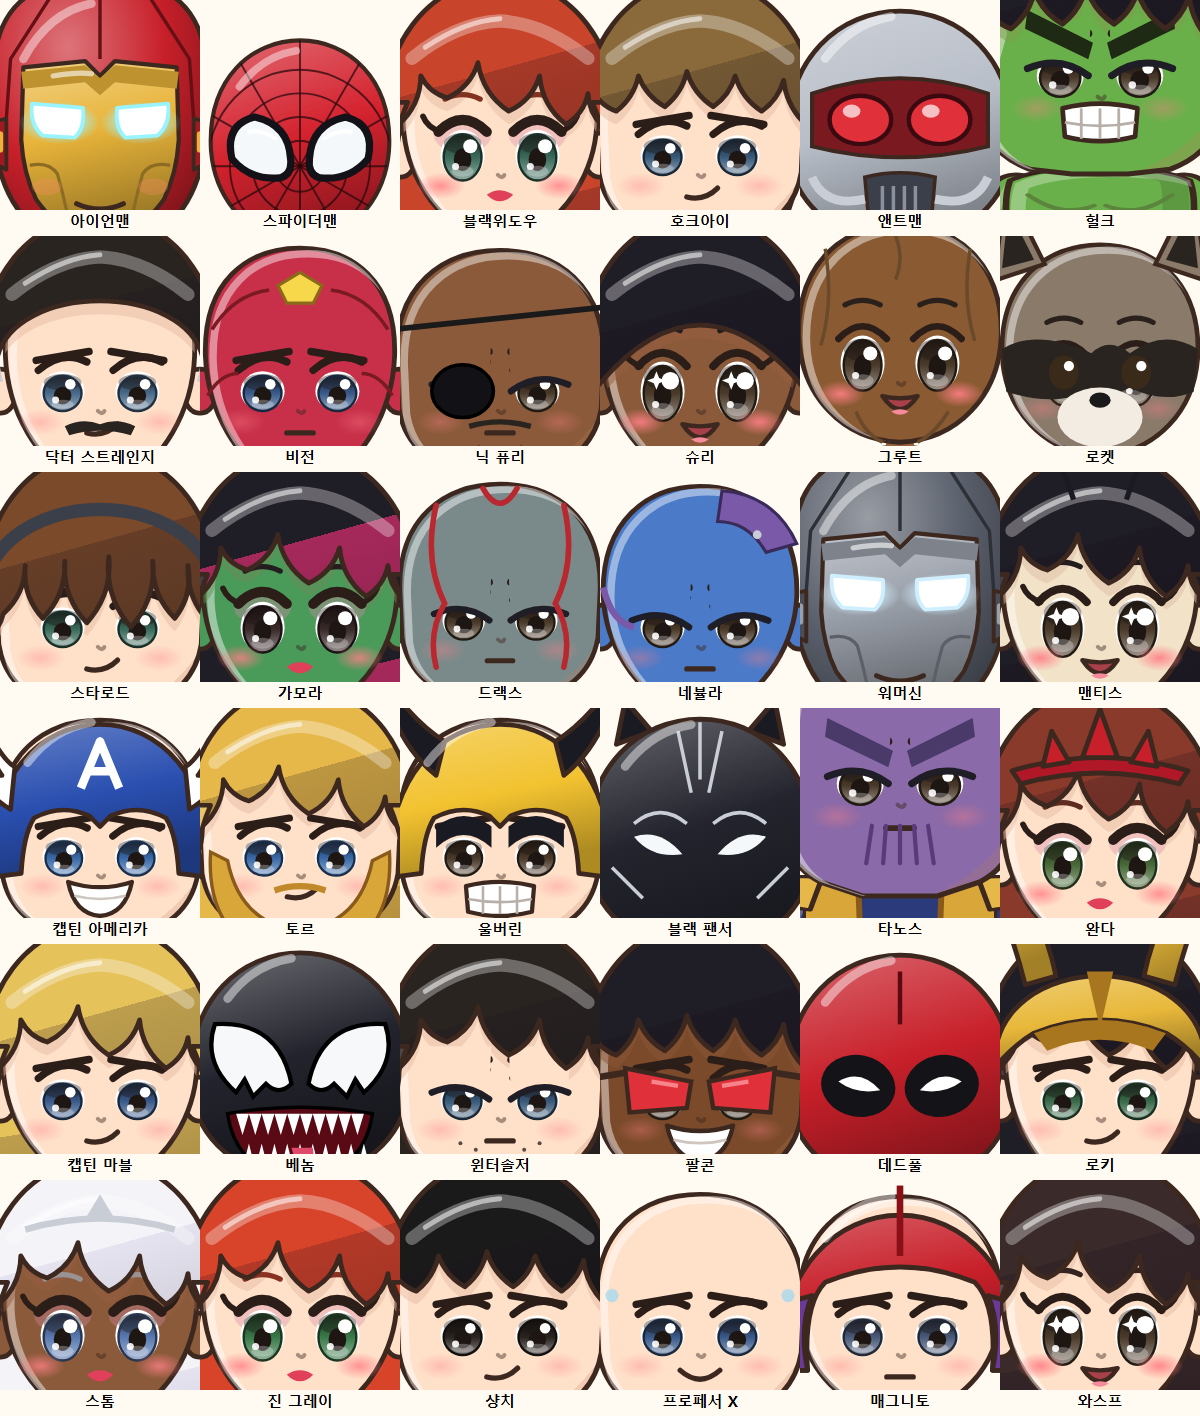
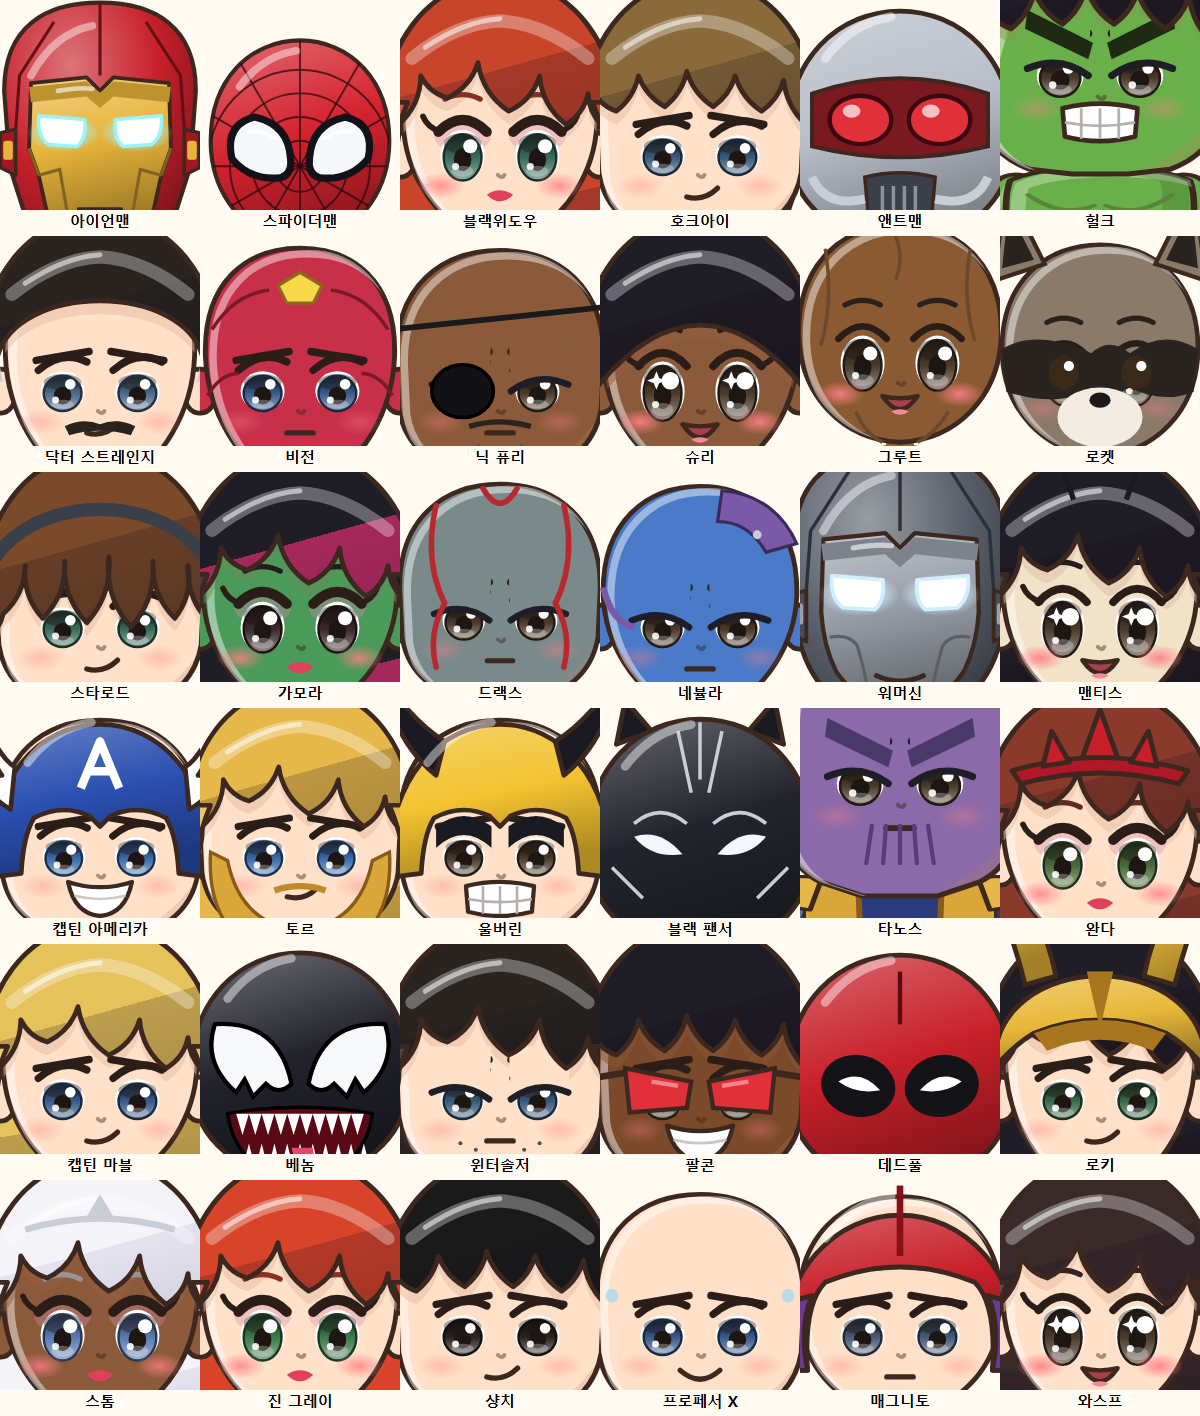
마블직원 v1: 아이언맨 = C 시안 확정 · 머리 10% 줄임

Changed region(s): [[0.0, 0.0, 0.185, 0.1554]]

diff --git a/jugansa/ai-office/ai-jugansa/design/skins/마블직원_v1/svg_chars.py b/jugansa/ai-office/ai-jugansa/design/skins/마블직원_v1/svg_chars.py
@@ -1362,7 +1362,7 @@ def M(name, skin=SK, hs="short", hair="#2a2420", suit="#2a4fb0", **kw):
 
 # ── 명단 (인기순 매핑 · 본부장 확정) ──
 DK, BR, PL = "#8a5a3a", "#7a4a2a", "#f2e2c8"
-BOSS_LOOK = M("아이언맨", iron_style="C", hs="bald", suit="#c8202a", hat="m_iron", mv_top="iron", glove="#c8202a", legs="#c8202a", boots="#c8202a", boot_top=176, iron_arms=True, iron_legs=True, mvp=["repulsor"], ex=["no_ears", "burly"])
+BOSS_LOOK = M("아이언맨", iron_style="C", head_k=0.9, hs="bald", suit="#c8202a", hat="m_iron", mv_top="iron", glove="#c8202a", legs="#c8202a", boots="#c8202a", boot_top=176, iron_arms=True, iron_legs=True, mvp=["repulsor"], ex=["no_ears", "burly"])
 ROSTER = {
     "scout": [
         M("스파이더맨", hs="bald", suit="#d42430", hat="m_spidey", head_k=0.86, mv_top="spidey", legs="#2a4fb0", boots="#d42430", boot_top=150, glove="#d42430", ex=["no_ears"]),
